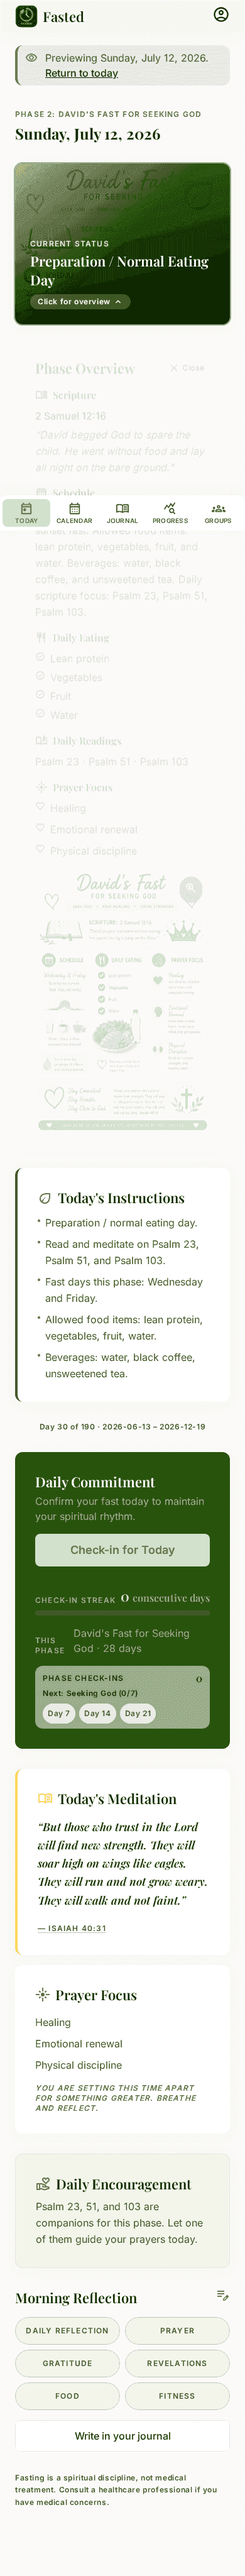
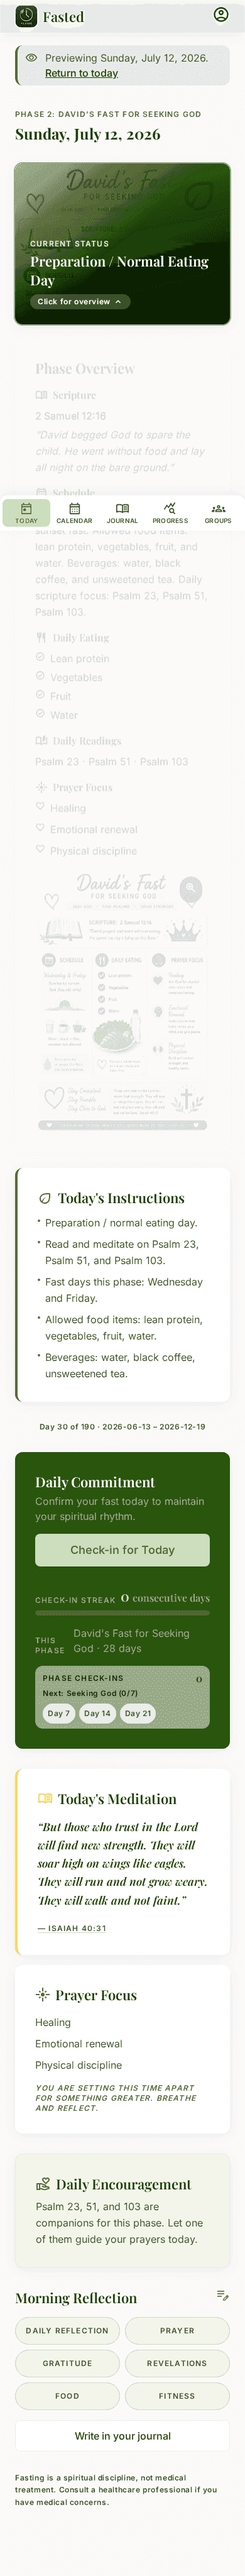
fix(pr #162): address review findings for phase overview
- Update toggle aria-label to reflect expand/collapse (not image lightbox)
- Keep overview panel in DOM with hidden attribute for aria-controls
- Remove redundant Close button; hero toggle handles open/close
- Simplify today-overview e2e with seedProgress fixture
- Update fasted-journey-phases selector to use test id
- Compress issue-159 screenshot artifacts for CI

Changed region(s): [[0.0615, 0.0625, 0.7692, 0.1249], [0.0615, 0.0, 0.1538, 0.0312]]

diff --git a/src/components/OverviewSection.tsx b/src/components/OverviewSection.tsx
@@ -41,7 +41,7 @@ export function OverviewSection({ phase, fastTypeLabel, isFastDay }: Props) {
         aria-expanded={expanded}
         aria-controls="phase-overview-panel"
         className="group relative block h-64 w-full cursor-pointer overflow-hidden rounded-xl grace-shadow text-left transition-transform hover:ring-2 hover:ring-secondary/60 active:scale-[0.99] md:h-72"
-        aria-label={`View ${phase.title} image`}
+        aria-label={`${expanded ? 'Hide' : 'Show'} ${phase.title} phase overview`}
         data-testid="phase-overview-toggle"
       >
         {phase.imagePath && (
@@ -76,25 +76,13 @@ export function OverviewSection({ phase, fastTypeLabel, isFastDay }: Props) {
         </div>
       </button>
 
-      {expanded && (
-        <div
-          id="phase-overview-panel"
-          className="stitch-card animate-fade-in-up space-y-stack-md p-stack-lg"
-          data-testid="phase-overview-panel"
-        >
-          <div className="flex items-center justify-between gap-3">
-            <h3 className="font-display text-headline-md text-primary">Phase Overview</h3>
-            <button
-              type="button"
-              onClick={() => setExpanded(false)}
-              className="inline-flex shrink-0 items-center gap-1 rounded-lg px-2 py-1 text-label-caps text-on-surface-variant transition-colors hover:bg-surface-container-high hover:text-primary"
-              aria-label="Close overview"
-              data-testid="phase-overview-close"
-            >
-              <Icon name="close" size={18} />
-              Close
-            </button>
-          </div>
+      <div
+        id="phase-overview-panel"
+        hidden={!expanded}
+        className={`stitch-card space-y-stack-md p-stack-lg${expanded ? ' animate-fade-in-up' : ''}`}
+        data-testid="phase-overview-panel"
+      >
+        <h3 className="font-display text-headline-md text-primary">Phase Overview</h3>
 
           <OverviewBlock icon="menu_book" title="Scripture">
             <p className="font-medium text-primary">{phase.scriptureReference}</p>
@@ -165,8 +153,7 @@ export function OverviewSection({ phase, fastTypeLabel, isFastDay }: Props) {
               <Icon name="zoom_in" size={20} />
             </button>
           </div>
-        </div>
-      )}
+      </div>
 
       {lightboxOpen && phase.imagePath && (
         <ImageLightbox

diff --git a/e2e/today-overview.spec.ts b/e2e/today-overview.spec.ts
@@ -1,29 +1,12 @@
 import { expect, test } from '@playwright/test';
 import * as path from 'path';
-import { TOUR_DISMISSED } from './fixtures/constants';
+import { seedProgress } from './fixtures/seed-states';
 
-const STORAGE_KEY = 'fasted-calendar-progress:guest';
 const ARTIFACT_DIR = path.join(process.cwd(), 'artifacts', 'issue-159');
 
 test.describe('Today phase overview', () => {
   test.beforeEach(async ({ page }) => {
-    await page.addInitScript(
-      ({ key, tourFlags }) => {
-        localStorage.setItem('fasted-calendar-install-toast-dismissed', '1');
-        localStorage.setItem(
-          key,
-          JSON.stringify({
-            ...tourFlags,
-            checkIns: [],
-            journalEntries: [],
-            badges: [],
-            settings: { reminderTime: '07:00', theme: 'light' },
-            activeJourneyId: 'fasted-journey',
-          }),
-        );
-      },
-      { key: STORAGE_KEY, tourFlags: TOUR_DISMISSED },
-    );
+    await seedProgress(page, 'empty');
   });
 
   test('opens and closes the phase overview on Today', async ({ page }) => {
@@ -41,30 +24,26 @@ test.describe('Today phase overview', () => {
       fullPage: true,
     });
     await expect(toggle).toHaveAttribute('aria-expanded', 'false');
-    await expect(panel).toHaveCount(0);
+    await expect(panel).toBeHidden();
 
     await toggle.click();
 
     await expect(panel).toBeVisible();
     await expect(toggle).toHaveAttribute('aria-expanded', 'true');
     await expect(panel).toContainText('Phase Overview');
-    await expect(panel).toContainText('2 Samuel 12:16');
-    await expect(panel).toContainText('Schedule');
-    await expect(panel).toContainText('Prayer Focus');
-    await expect(panel).toContainText('Healing');
     await page.screenshot({
       path: path.join(ARTIFACT_DIR, 'today-overview-expanded-mobile.png'),
       fullPage: true,
     });
 
-    await page.getByTestId('phase-overview-close').click();
+    await toggle.click();
 
-    await expect(panel).toHaveCount(0);
+    await expect(panel).toBeHidden();
     await expect(toggle).toHaveAttribute('aria-expanded', 'false');
 
     await toggle.click();
     await expect(panel).toBeVisible();
     await toggle.click();
-    await expect(panel).toHaveCount(0);
+    await expect(panel).toBeHidden();
   });
 });

diff --git a/e2e/fasted-journey-phases.spec.ts b/e2e/fasted-journey-phases.spec.ts
@@ -76,7 +76,7 @@ test.describe('Fasted journey phase images and instructions', () => {
       await page.goto(`/?date=${phaseCase.date}`);
       await page.waitForLoadState('networkidle');
 
-      const phaseImage = page.getByRole('button', { name: /View .* image/ }).locator('img');
+      const phaseImage = page.getByTestId('phase-overview-toggle').locator('img');
       await expect(phaseImage).toHaveAttribute('src', phaseCase.image);
 
       const instructionsList = page.getByTestId('today-instructions-list');
